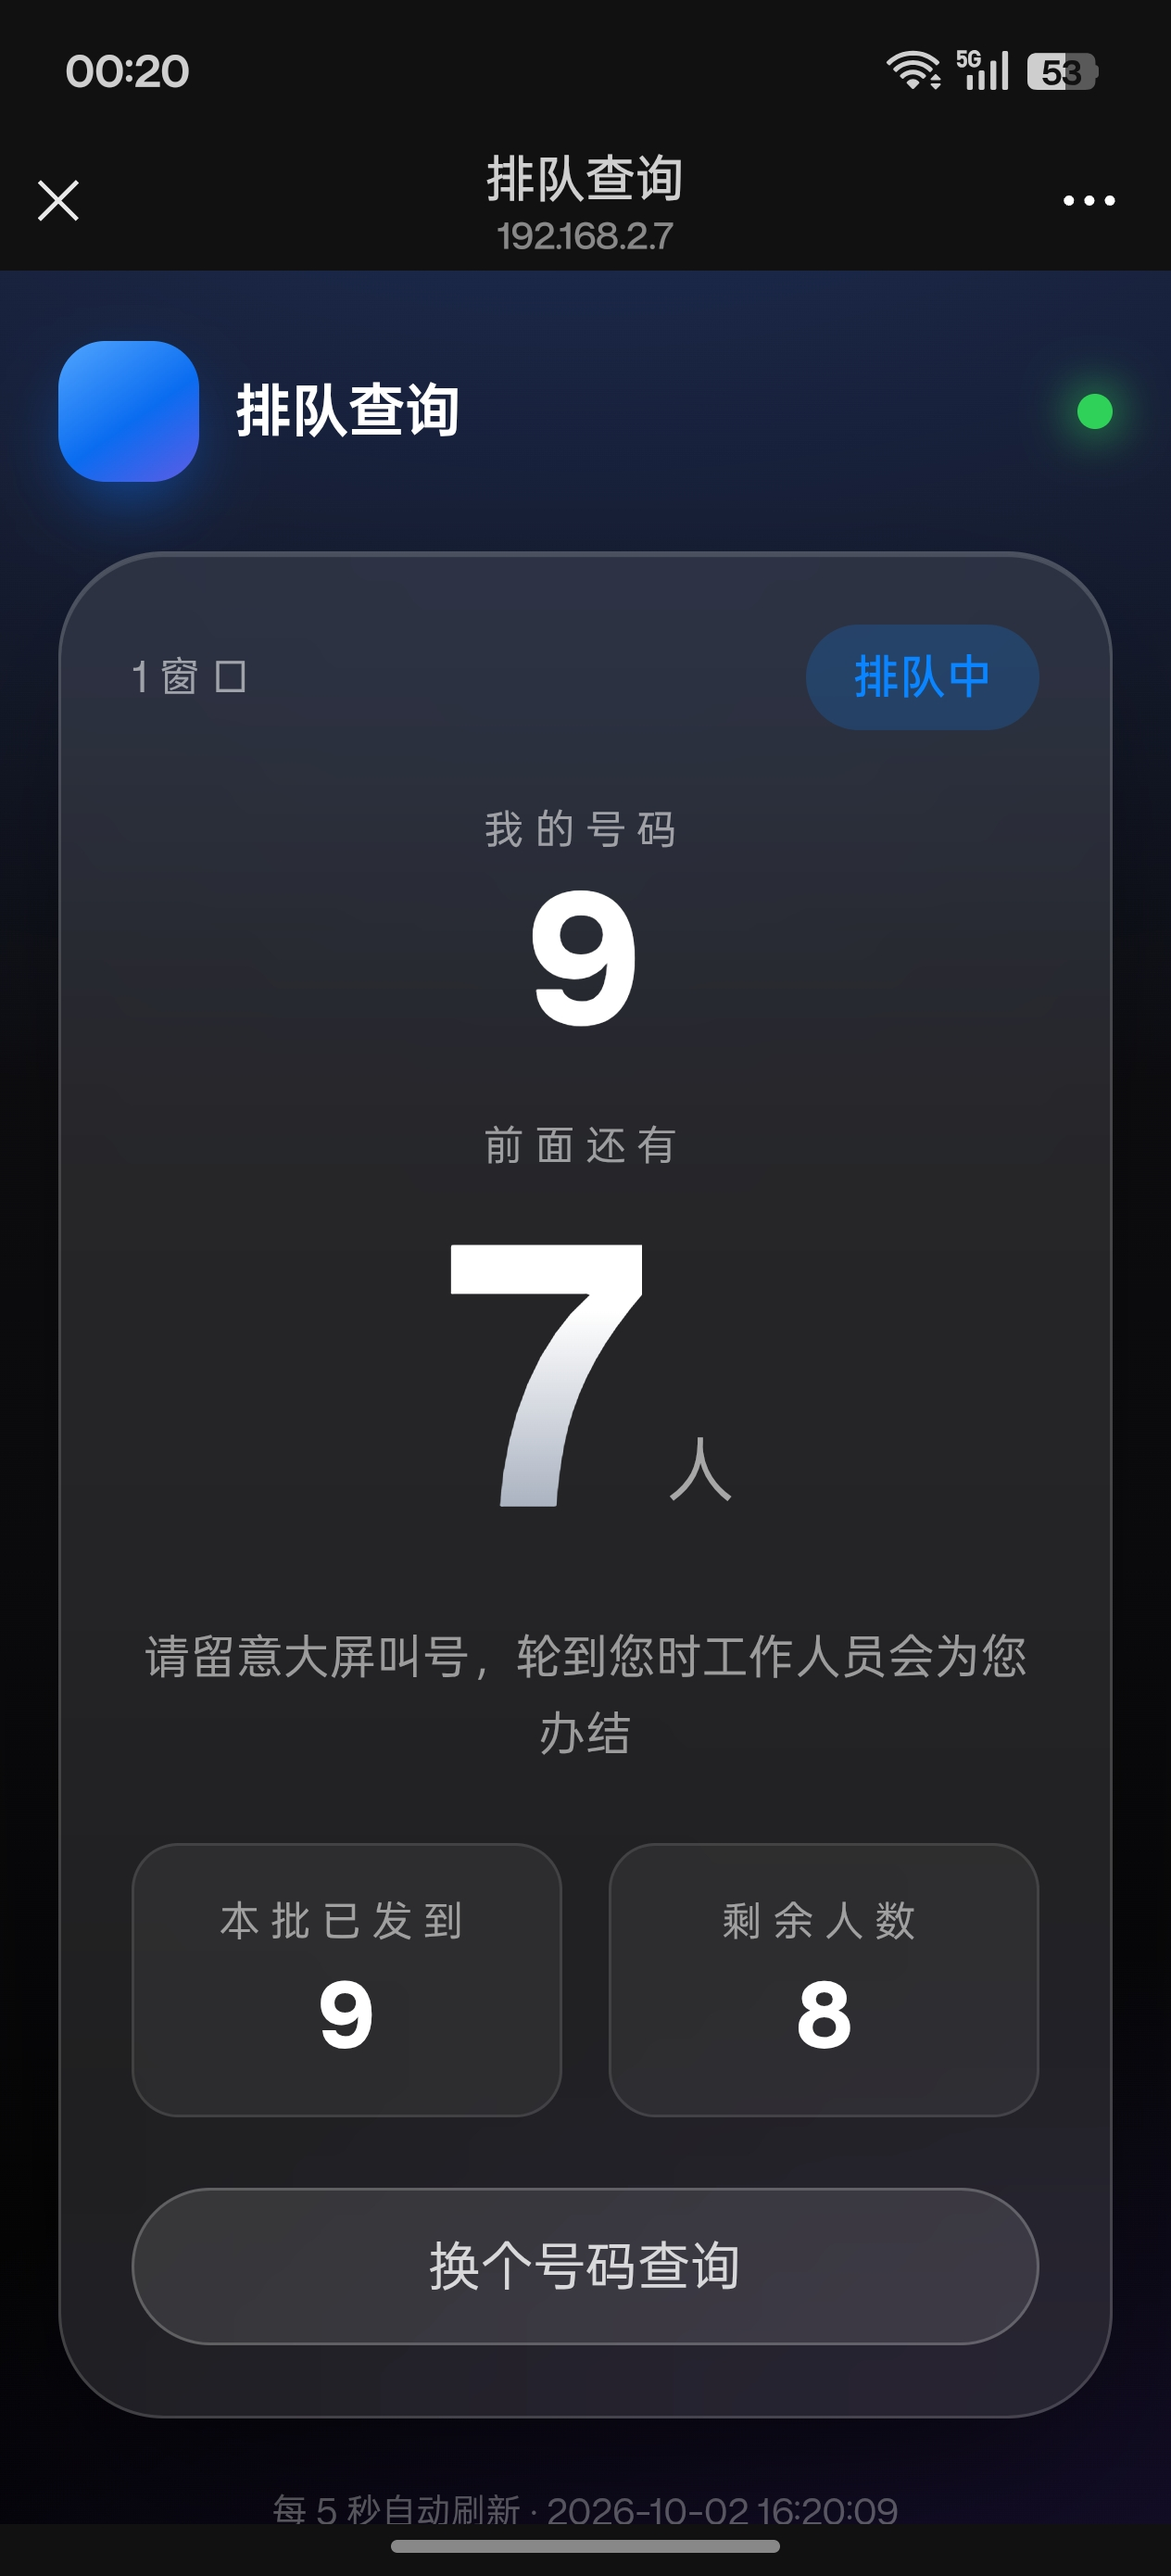
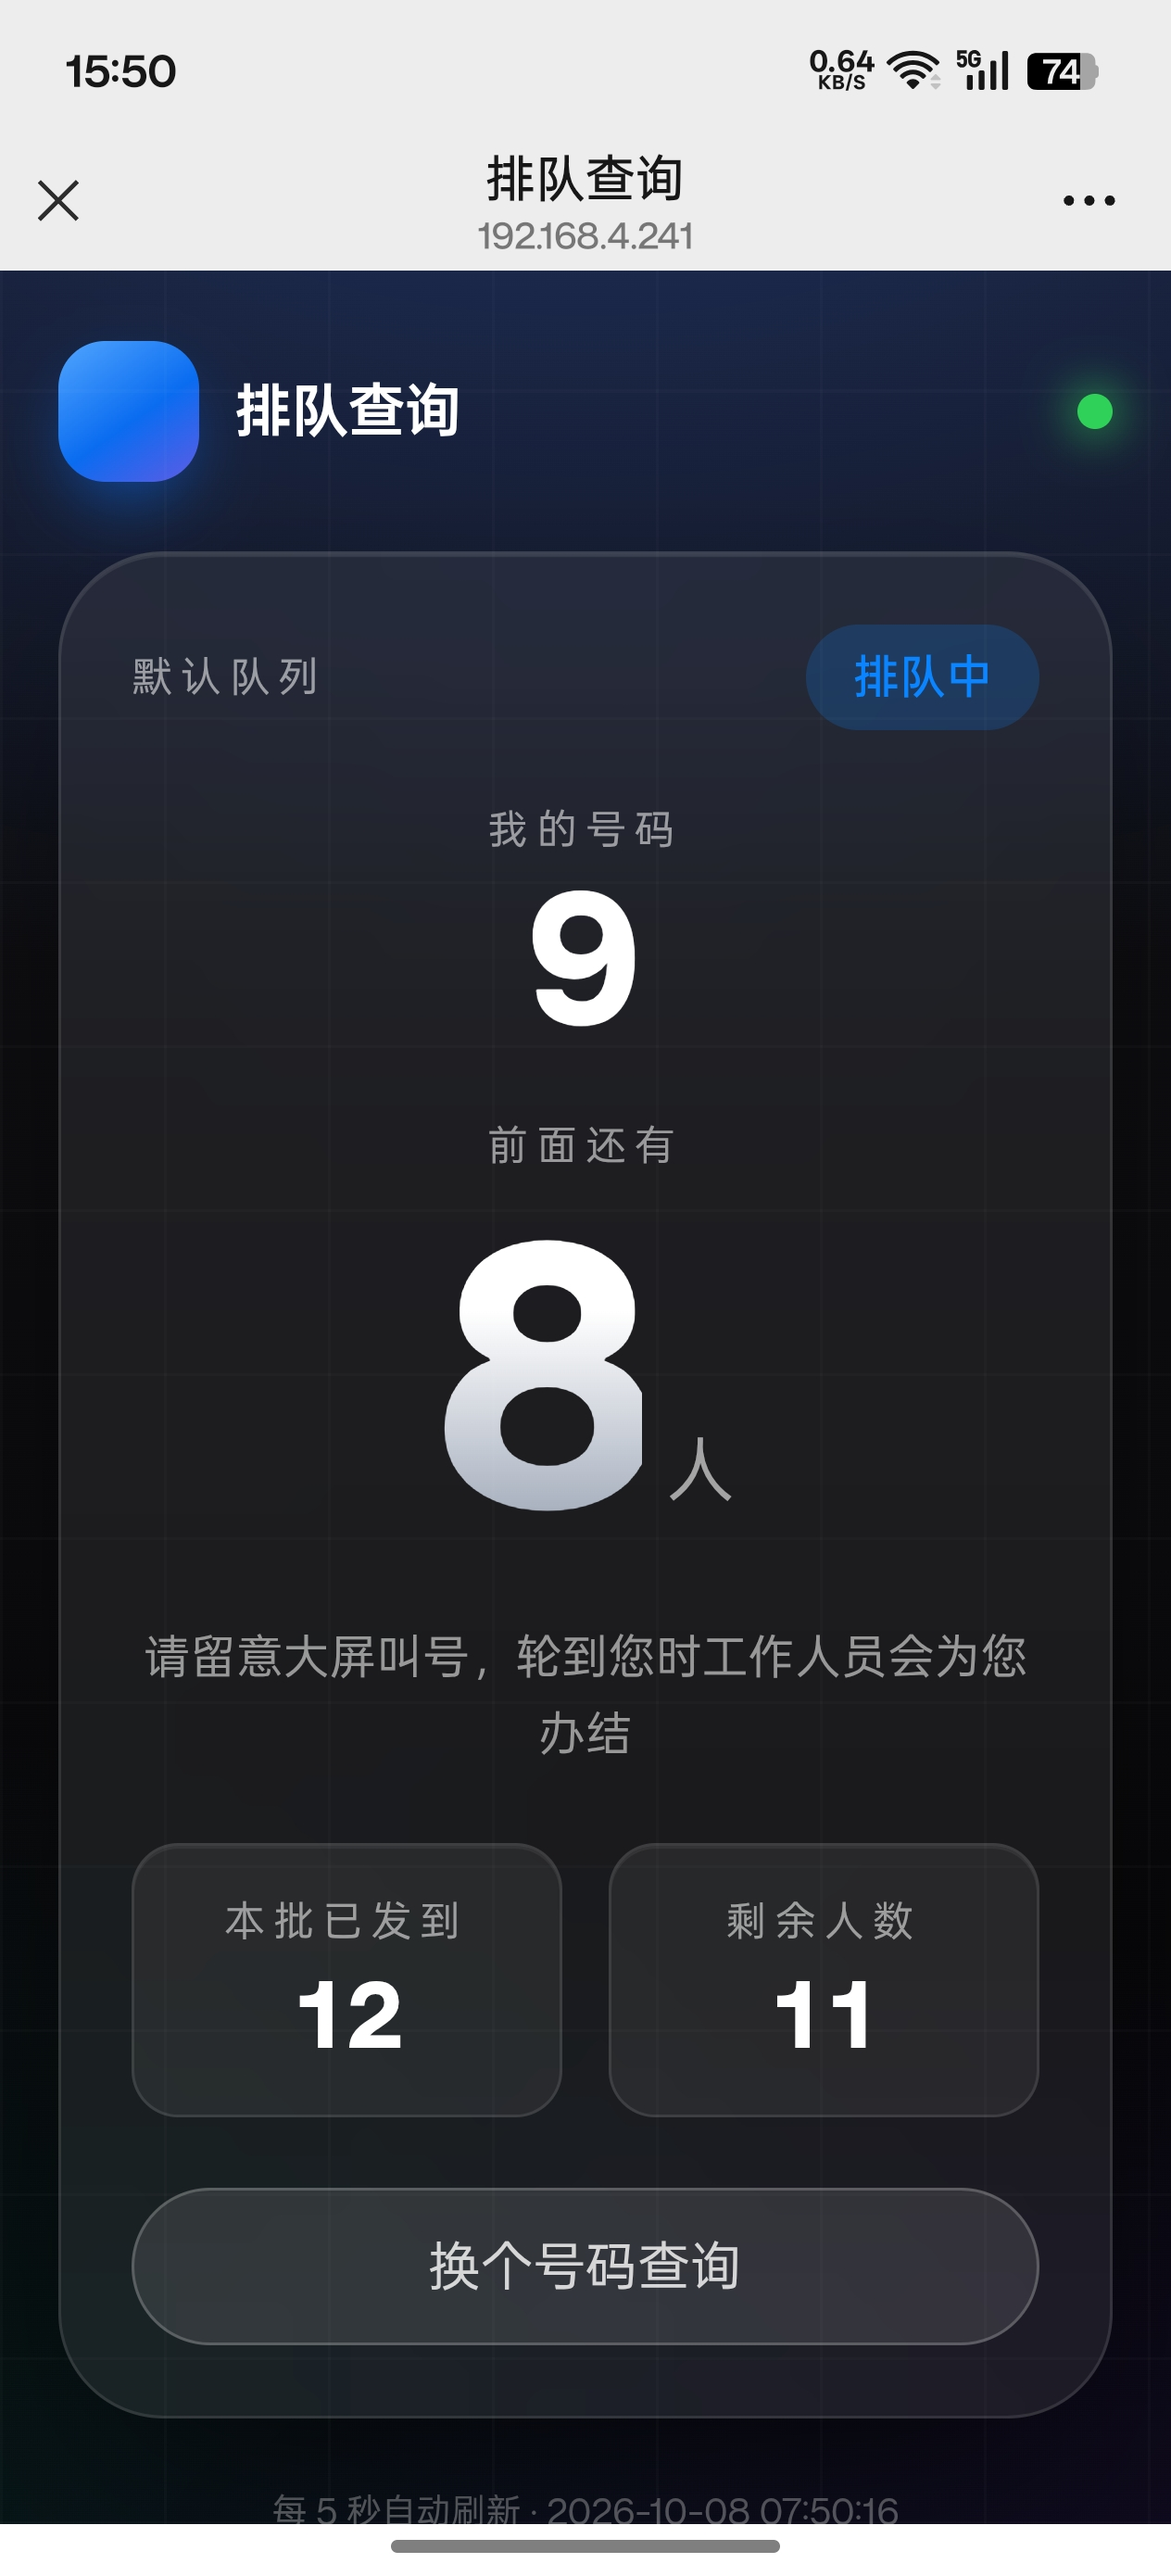
feat: 预约取号系统大屏添加登录和权限控制

diff --git a/resources/js/reserve/api.js b/resources/js/reserve/api.js
@@ -28,7 +28,21 @@ function handle(payload) {
 }
 
 function request(config) {
-    return window.axios(config).then(unwrap).then(handle);
+    return window
+        .axios(config)
+        .then(unwrap)
+        .then(handle)
+        .catch(function (error) {
+            // session 过期或未登录：写接口返回 401；CSRF token 过期返回 419。
+            // 大屏是长驻页面，直接跳登录页让操作员重新登录（登录后按 intended 跳回大屏）。
+            const status = error && error.response ? error.response.status : 0;
+            if (status === 401 || status === 419) {
+                window.location.href = '/login';
+                // 返回一个永不 settle 的 promise，阻止 store 继续走失败分支弹 toast
+                return new Promise(function () {});
+            }
+            throw error;
+        });
 }
 
 /** 查询队列当前状态：GET /api/reserve/state?key=xxx */

diff --git a/public/js/reserve/app.js b/public/js/reserve/app.js
@@ -6524,7 +6524,17 @@ function handle(payload) {
   return payload.data;
 }
 function request(config) {
-  return window.axios(config).then(unwrap).then(handle);
+  return window.axios(config).then(unwrap).then(handle)["catch"](function (error) {
+    // session 过期或未登录：写接口返回 401；CSRF token 过期返回 419。
+    // 大屏是长驻页面，直接跳登录页让操作员重新登录（登录后按 intended 跳回大屏）。
+    var status = error && error.response ? error.response.status : 0;
+    if (status === 401 || status === 419) {
+      window.location.href = '/login';
+      // 返回一个永不 settle 的 promise，阻止 store 继续走失败分支弹 toast
+      return new Promise(function () {});
+    }
+    throw error;
+  });
 }
 
 /** 查询队列当前状态：GET /api/reserve/state?key=xxx */

diff --git a/routes/web.php b/routes/web.php
@@ -19,12 +19,12 @@ Route::get('/', function () {
     return view('welcome');
 });
 
-// 预约取号 / 放号大屏控制台（单页）
+// 预约取号 / 放号大屏控制台（单页），登录后可用
 Route::get('/reserve', function () {
     return view('reserve.index', [
         'queueOptions' => config('reserve.queue_options'),
     ]);
-})->name('reserve.index');
+})->middleware('auth')->name('reserve.index');
 
 // 移动端排队查询（只读）：扫码或手动输入号码，查看自己前面还有几人
 Route::get('/m', function () {
@@ -32,6 +32,18 @@ Route::get('/m', function () {
         'queueOptions' => config('reserve.queue_options'),
     ]);
 })->name('mobile.index');
+
+// 取号 / 放号（URI 仍是 /api/reserve，前端 axios baseURL=/api 无需改动）。
+// 放在 web.php 而不是 api.php 的原因：写接口要求登录态，而 api 中间件组没有 session；
+// 直接给 api.php 路由叠 ['web','auth'] 会踩 Laravel 中间件优先级排序的坑
+// （App\Http\Middleware\EncryptCookies 是子类，不在 $middlewarePriority 名单里，
+// StartSession 会被排到它前面，session 读不到解密后的 cookie，写接口永远 401）。
+// web 组自带 session + CSRF，axios 会自动从 XSRF cookie 带 X-XSRF-TOKEN 头。
+// 未登录 → 401 JSON（expectsJson 时）；CSRF 过期 → 419；前端识别后跳回登录页。
+Route::post('/api/reserve', [\App\Http\Controllers\Api\ReserveController::class, 'add'])
+    ->middleware('auth');
+Route::delete('/api/reserve', [\App\Http\Controllers\Api\ReserveController::class, 'remove'])
+    ->middleware('auth');
 
 Route::get('/dashboard', function () {
     return view('dashboard');
@@ -51,3 +63,4 @@ Route::post('/upload', function(Request $request){
 });
 
 require __DIR__.'/auth.php';
+

diff --git a/tests/Feature/ReserveAuthTest.php b/tests/Feature/ReserveAuthTest.php
@@ -1,0 +1,41 @@
+<?php
+
+namespace Tests\Feature;
+
+use App\Models\User;
+use Illuminate\Foundation\Testing\RefreshDatabase;
+use Tests\TestCase;
+
+/**
+ * 大屏页面级鉴权：/reserve 登录才可用；/m 与只读接口保持公开（顾客扫码免登录）
+ */
+class ReserveAuthTest extends TestCase
+{
+    use RefreshDatabase;
+
+    public function test_reserve_screen_redirects_guests_to_login()
+    {
+        $this->get('/reserve')->assertRedirect('/login');
+    }
+
+    public function test_reserve_screen_is_accessible_after_login()
+    {
+        $this->actingAs(User::factory()->create());
+
+        $this->get('/reserve')->assertOk();
+    }
+
+    public function test_mobile_and_readonly_apis_stay_public()
+    {
+        $this->get('/m')->assertOk();
+        $this->getJson('/api/reserve/state?key=guest')->assertOk()
+            ->assertJsonPath('code', 0);
+        $this->getJson('/api/reserve/position?key=guest&serial_no=1')->assertOk()
+            ->assertJsonPath('code', 0);
+    }
+
+    public function test_home_redirect_lands_on_reserve_screen()
+    {
+        $this->assertSame('/reserve', \App\Providers\RouteServiceProvider::HOME);
+    }
+}

diff --git a/routes/api.php b/routes/api.php
@@ -20,12 +20,13 @@ use Illuminate\Support\Facades\Route;
 // 健康检查（公开访问，无需鉴权）
 Route::get('/health', [HealthController::class, 'check']);
 
-// 预约系统：查询队列状态（只读，前端 5s 轮询）、取号、放号
+// 预约系统：查询队列状态（只读，前端 5s 轮询）、移动端排队查询 —— 公开只读
 Route::get('/reserve/state', [ReserveController::class, 'state']);
 // 移动端排队查询（只读）：按 key + serial_no 查自己的号码状态与前面人数
 Route::get('/reserve/position', [ReserveController::class, 'position']);
-Route::post('/reserve', [ReserveController::class, 'add']);
-Route::delete('/reserve', [ReserveController::class, 'remove']);
+
+// 注意：取号 / 放号（POST/DELETE /api/reserve）不在此文件。
+// 它们要求 session 登录态，定义在 routes/web.php（同名 URI），见该文件注释。
 
 Route::middleware('auth:sanctum')->get('/user', function (Request $request) {
     return $request->user();

diff --git a/tests/Feature/ReserveStateTest.php b/tests/Feature/ReserveStateTest.php
@@ -4,12 +4,32 @@ namespace Tests\Feature;
 
 use App\Models\Customer;
 use App\Models\SerialGenerator;
+use App\Models\User;
 use Illuminate\Foundation\Testing\RefreshDatabase;
 use Tests\TestCase;
 
 class ReserveStateTest extends TestCase
 {
     use RefreshDatabase;
+
+    protected function setUp(): void
+    {
+        parent::setUp();
+        // 取号 / 放号写接口要求登录（大屏操作员），测试环境自动跳过 CSRF
+        $this->actingAs(User::factory()->create());
+    }
+
+    public function test_write_endpoints_require_authentication()
+    {
+        // 清掉 setUp 里的登录态，验证未登录场景
+        auth()->logout();
+        $this->postJson('/api/reserve', ['key' => 'counter-1'])->assertStatus(401);
+        $this->deleteJson('/api/reserve', [
+            'key' => 'counter-1',
+            'batch_no' => 1,
+            'serial_no' => 1,
+        ])->assertStatus(401);
+    }
 
     public function test_queue_key_is_required()
     {

diff --git a/resources/views/reserve/partials/topbar.blade.php b/resources/views/reserve/partials/topbar.blade.php
@@ -44,6 +44,17 @@
             <span x-text="$store.reserve.zoomed ? '缩 小' : '放 大'">放 大</span>
         </button>
 
+        {{-- 退出登录：Breeze 的 /logout 只接受 POST + CSRF --}}
+        <form method="POST" action="{{ route('logout') }}">
+            @csrf
+            <button type="submit" class="btn-ghost">
+                <svg class="h-5 w-5" viewBox="0 0 24 24" fill="none" stroke="currentColor" stroke-width="2" stroke-linecap="round" stroke-linejoin="round" aria-hidden="true">
+                    <path d="M9 21H5a2 2 0 0 1-2-2V5a2 2 0 0 1 2-2h4M16 17l5-5-5-5M21 12H9"/>
+                </svg>
+                <span>退 出</span>
+            </button>
+        </form>
+
     </div>
 
 </header>

diff --git a/tests/Feature/ReservePositionTest.php b/tests/Feature/ReservePositionTest.php
@@ -3,6 +3,7 @@
 namespace Tests\Feature;
 
 use App\Models\Customer;
+use App\Models\User;
 use Illuminate\Foundation\Testing\RefreshDatabase;
 use Tests\TestCase;
 
@@ -15,6 +16,13 @@ use Tests\TestCase;
 class ReservePositionTest extends TestCase
 {
     use RefreshDatabase;
+
+    protected function setUp(): void
+    {
+        parent::setUp();
+        // position 本身公开只读，但测试里用取号/放号接口造数据，这两个写接口要求登录
+        $this->actingAs(User::factory()->create());
+    }
 
     public function test_key_and_serial_no_are_required()
     {

diff --git a/app/Providers/RouteServiceProvider.php b/app/Providers/RouteServiceProvider.php
@@ -17,7 +17,7 @@ class RouteServiceProvider extends ServiceProvider
      *
      * @var string
      */
-    public const HOME = '/dashboard';
+    public const HOME = '/reserve';
 
     /**
      * The controller namespace for the application.

diff --git a/AGENTS.md b/AGENTS.md
@@ -9,13 +9,14 @@
 
 预约取号 / 放号系统。
 
-- **后端**：Laravel 8.75（PHP 8），SQLite 单文件数据库，无鉴权（内网/演示用途）。
+- **后端**：Laravel 8.75（PHP 8），SQLite 单文件数据库。
+- **鉴权**：Breeze session 登录（`/login`、`/register`、`/logout`）。大屏 `/reserve` 与取号/放号写接口需登录；移动端 `/m` 与只读查询接口公开（顾客扫码免登录）。
 - **前端**：Blade + Alpine.js + Tailwind CSS，走 laravel-mix（webpack）构建。
 - **核心场景**：大厅大屏展示取号结果、人工操作放号，前端 5 秒轮询队列状态。
 
 ### 非目标
 
-- 不做登录鉴权、不做报表统计、不做多租户隔离。
+- 不做报表统计、不做多租户隔离、不做 RBAC 多角色（登录即可用）。
 
 ---
 
@@ -101,9 +102,17 @@ tailwind.config.js             # content 已覆盖 resources/views/**
 
 ## 5. 接口契约（API）
 
-统一前缀 `/api`，均**无鉴权**（内网/演示）。
+统一前缀 `/api`。**只读接口公开**（state / position，手机端轮询要用）；**写接口（取号/放号）要求登录**。
 
-### `POST /api/reserve` — 取号
+> ⚠ 写接口（`POST/DELETE /api/reserve`）定义在 `routes/web.php`（同名 URI），不在 `api.php`。
+> 原因：api 中间件组没有 session，写接口要登录态；直接给 api.php 路由叠 `['web','auth']`
+> 会踩 Laravel 中间件优先级排序的坑（`App\Http\Middleware\EncryptCookies` 是子类，不在
+> `$middlewarePriority` 名单里，StartSession 会被排到它前面，session 读不到解密后的
+> cookie，写接口永远 401）。web 组自带 session + CSRF，axios 自动从 XSRF cookie
+> 带 X-XSRF-TOKEN 头。
+> 未登录 → `401` JSON；CSRF 过期 → `419`；大屏前端 `reserve/api.js` 识别两者后跳 `/login`。
+
+### `POST /api/reserve` — 取号（需登录）
 
 请求体：`{ key: string }`（队列标识）
 成功：`code:0` + `data: { queue_key, batch_no, serial_no }`
@@ -236,7 +245,7 @@ touch database/database.sqlite
 php artisan migrate
 php artisan serve
 
-# 打开 http://localhost:8000/reserve
+# 打开 http://localhost:8000/reserve（未登录会跳 /login；首次先到 /register 注册一个账号）
 ```
 
 > Node 版本提示：laravel-mix 6 + webpack 5 在 Node 22 下偶发 `md4 hash` 报错，如遇可试 `NODE_OPTIONS=--openssl-legacy-provider npm run prod`。
@@ -250,9 +259,10 @@ php artisan serve
 
 ## 9. 测试与提交
 
-- Feature 测试放 `tests/Feature/`，命名 `XxxTest.php`，继承 `Tests\TestCase`，用 `RefreshDatabase`（sqlite 会重建表）。
+- Feature 测试放 `tests/Feature/`，命名 `XxxTest.php`，继承 `Tests\TestCase`，用 `RefreshDatabase`（sqlite `:memory:`，见 phpunit.xml，**不要改回文件库**，否则测试会清掉开发数据）。
+- 写接口（取号/放号）要求登录：测试里用 `$this->actingAs(User::factory()->create())`（参考两个现有测试的 `setUp`）；测试环境自动跳过 CSRF。
 - 运行：`./vendor/bin/phpunit --filter=ReserveStateTest`（`php artisan test` 亦可）。
-- 现有测试参考：`tests/Feature/ReserveStateTest.php`（覆盖取号→状态→放号→换批全链路）、`tests/Feature/ReservePositionTest.php`（移动端排队查询：前面人数 / 已办结 / 换批后旧号 not_found / 只读无副作用）。
+- 现有测试参考：`tests/Feature/ReserveStateTest.php`（覆盖取号→状态→放号→换批全链路）、`tests/Feature/ReservePositionTest.php`（移动端排队查询：前面人数 / 已办结 / 换批后旧号 not_found / 只读无副作用）、`tests/Feature/ReserveAuthTest.php`（页面级鉴权：大屏跳登录、/m 与只读接口公开）。
 - 提交信息：`feat: 取号放号大屏控制台`、`fix: 放号并发下批次计算错误` 这类 `type: 主题` 格式。
 
 ---
@@ -273,9 +283,11 @@ php artisan serve
 | 接口 500 报 `unexpected '=>'` | 运行时 PHP 7.3，用了 `fn()=>` 箭头函数 | 改回 `function ($x) { return ...; }` 传统闭包 |
 | 手机扫码打不开页面 | `php artisan serve` 默认只绑 127.0.0.1 | 启动加 `--host=0.0.0.0`；大屏也用局域网 IP 打开（二维码取 location.origin） |
 | 列表点选后高亮错乱 | `x-for` 里又开了 `x-data` | 改用 store `selectedId` |
-| 接口在浏览器 401 | 误把 API 路由放进 `web.php` 或请求没带 CSRF | API 走 `api.php`（无 CSRF），确认 baseURL=`/api` |
+| 接口在浏览器 401 | 只读接口正常但取号/放号 401 | 未登录或 session 过期，前端会自动跳 `/login`；注意写接口故意放在 `web.php`（见 §5 警告），别挪回 `api.php` |
+| 写接口挪回 api.php 后永远 401 | 叠 `['web','auth']` 触发中间件优先级排序：子类 `EncryptCookies` 不在 `$middlewarePriority`，StartSession 先于解密执行 | 保持写接口在 `web.php`；勿叠 web 组到 api 路由 |
+| 大屏突然跳登录页 | session/CSRF 过期（419）或未登录（401），`reserve/api.js` 自动跳转 | 重新登录即可；长挂大屏可调大 `.env` 的 `SESSION_LIFETIME` |
 | PHP 命令直接报 `invalid PHP_VERSION` | 用了 macOS 系统自带 php | 切到 brew php |
 
 ---
 
-*最后更新：2026-10-08（界面深色精修：极光背景网格、hero 面板描边、统计色条、号票高密度网格与删除线 done 态、按钮图标、手机端「轮到您了」高亮与状态徽章语义配色）*
+*最后更新：2026-10-08（大屏接入 Breeze 登录鉴权：/reserve 与取号/放号写接口需登录，写接口置于 web.php 走 session+CSRF，/m 与只读接口保持公开；前端 401/419 自动跳登录，顶栏加退出按钮）*
